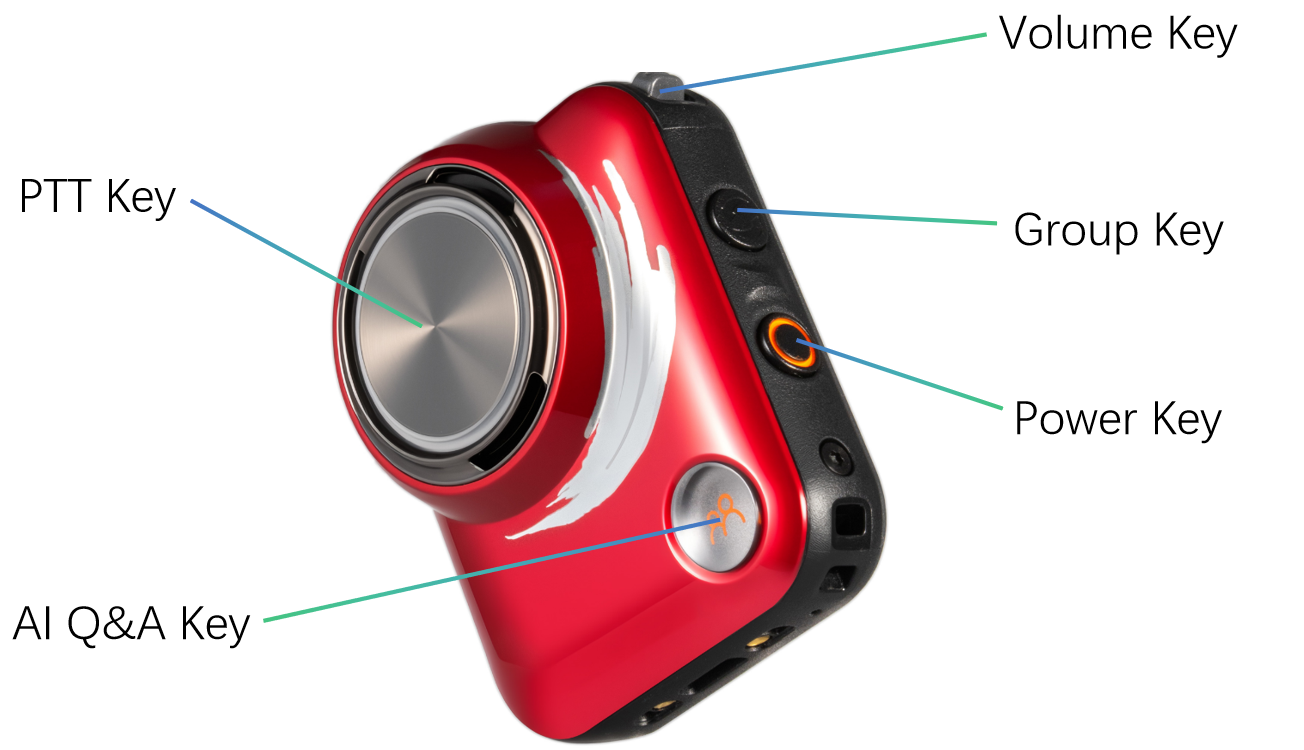
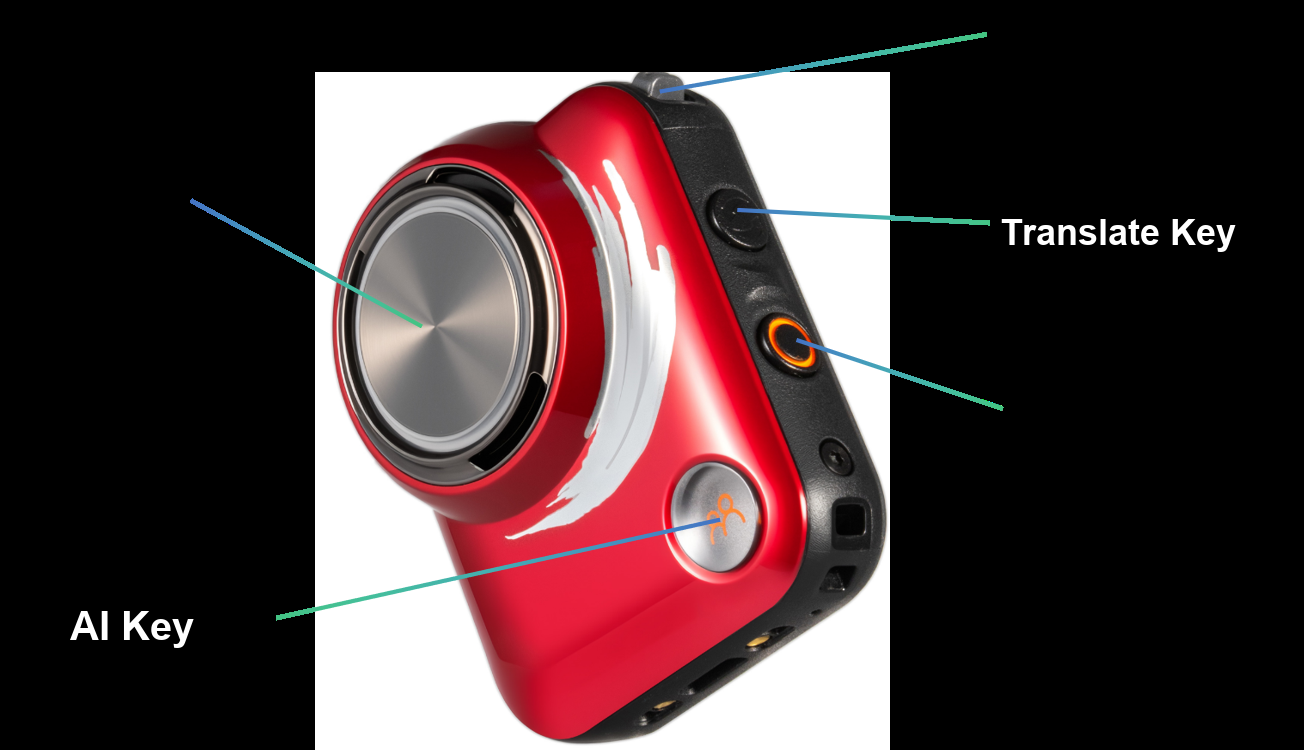
fix: 至臻版英文指南同步中文版 - 设备图Group Key改Translate Key / AI Q&A Key改AI Key，按键与功能卡改新版5键布局

diff --git a/ai-travel-premium-guide-en.html b/ai-travel-premium-guide-en.html
@@ -243,29 +243,29 @@
         <div>
           <div class="guide-slide__keys">
             <div class="guide-slide__key">
+              <div class="guide-slide__key-icon">🤖</div>
+              <div class="guide-slide__key-title">AI Key</div>
+              <div class="guide-slide__key-desc">Short press: One-tap guide<br>Hold: Voice question<br>Release: AI answer</div>
+            </div>
+            <div class="guide-slide__key">
               <div class="guide-slide__key-icon">🔊</div>
               <div class="guide-slide__key-title">Volume Key</div>
               <div class="guide-slide__key-desc">Adjust device volume</div>
             </div>
             <div class="guide-slide__key">
-              <div class="guide-slide__key-icon">🎤</div>
-              <div class="guide-slide__key-title">PTT Key</div>
-              <div class="guide-slide__key-desc">One-click commentary & intercom</div>
+              <div class="guide-slide__key-icon">🌐</div>
+              <div class="guide-slide__key-title">Translate Key</div>
+              <div class="guide-slide__key-desc">Hold 2s: Translation toggle<br>Short press: Stop guide</div>
             </div>
             <div class="guide-slide__key">
-              <div class="guide-slide__key-icon">👥</div>
-              <div class="guide-slide__key-title">Group Key</div>
-              <div class="guide-slide__key-desc">Start / search / join groups</div>
+              <div class="guide-slide__key-icon">🎤</div>
+              <div class="guide-slide__key-title">PTT Key</div>
+              <div class="guide-slide__key-desc">Hold: Start intercom<br>Release: Listen to intercom</div>
             </div>
             <div class="guide-slide__key">
               <div class="guide-slide__key-icon">🔘</div>
               <div class="guide-slide__key-title">Power Key</div>
               <div class="guide-slide__key-desc">Power on/off</div>
-            </div>
-            <div class="guide-slide__key" style="grid-column:1/-1;">
-              <div class="guide-slide__key-icon">🤖</div>
-              <div class="guide-slide__key-title">AI Q&A Key</div>
-              <div class="guide-slide__key-desc">Hold for voice query, AI answers instantly</div>
             </div>
           </div>
           <div style="margin-top:16px; text-align:center;">
@@ -282,34 +282,14 @@
     <div class="guide-slide guide-slide--ops">
       <div class="guide-slide__num">02</div>
       <div class="guide-slide__body">
-        <!-- Group Up -->
-        <div class="guide-slide__op">
-          <div class="guide-slide__op-icon">👥</div>
-          <div class="guide-slide__op-title">Group Up</div>
-          <ul class="guide-slide__op-steps">
-            <li class="guide-slide__op-step">
-              <span class="guide-slide__op-step-num">1</span>
-              <span><strong>Long press Group Key</strong> to start grouping, <strong>short press</strong> to stop</span>
-            </li>
-            <li class="guide-slide__op-step">
-              <span class="guide-slide__op-step-num">2</span>
-              <span><strong>Double-click Group Key</strong> to search groups, <strong>single-click</strong> to join</span>
-            </li>
-          </ul>
-        </div>
-
-        <!-- One-click Commentary -->
+        <!-- One-tap Guide -->
         <div class="guide-slide__op">
           <div class="guide-slide__op-icon">🎙️</div>
-          <div class="guide-slide__op-title">One-click Commentary</div>
+          <div class="guide-slide__op-title">One-tap Guide</div>
           <ul class="guide-slide__op-steps">
             <li class="guide-slide__op-step">
               <span class="guide-slide__op-step-num">1</span>
-              <span><strong>Single-click PTT Key</strong> for commentary on nearby attractions</span>
-            </li>
-            <li class="guide-slide__op-step">
-              <span class="guide-slide__op-step-num">2</span>
-              <span><strong>Single-click AI Q&A Key</strong> to stop commentary</span>
+              <span><strong>Single-click "AI Key"</strong> to start a guide of nearby attractions; press <strong>"Translate Key"</strong> to stop</span>
             </li>
           </ul>
         </div>
@@ -321,27 +301,43 @@
           <ul class="guide-slide__op-steps">
             <li class="guide-slide__op-step">
               <span class="guide-slide__op-step-num">1</span>
-              <span><strong>Hold AI Q&A Key</strong> for voice query, <strong>release</strong> to get reply</span>
-            </li>
-            <li class="guide-slide__op-step">
-              <span class="guide-slide__op-step-num">2</span>
-              <span><strong>Single-click AI Q&A Key</strong> to stop voice reply</span>
+              <span><strong>Hold "AI Key"</strong> for a voice question, <strong>release</strong> to get the AI answer; press <strong>"Translate Key"</strong> to stop the reply</span>
             </li>
           </ul>
         </div>
 
-        <!-- PTT -->
+        <!-- Voice Translation -->
         <div class="guide-slide__op">
-          <div class="guide-slide__op-icon">🎤</div>
-          <div class="guide-slide__op-title">PTT (Push-to-Talk)</div>
+          <div class="guide-slide__op-icon">🌐</div>
+          <div class="guide-slide__op-title">Voice Translation</div>
           <ul class="guide-slide__op-steps">
             <li class="guide-slide__op-step">
               <span class="guide-slide__op-step-num">1</span>
-              <span><strong>Hold PTT Key</strong> to speak to team members</span>
+              <span><strong>Hold "Translate Key" for 2s</strong> to enable translation; hold again for 2s to stop</span>
             </li>
+          </ul>
+        </div>
+
+        <!-- Group Up -->
+        <div class="guide-slide__op">
+          <div class="guide-slide__op-icon">👥</div>
+          <div class="guide-slide__op-title">Group Up</div>
+          <ul class="guide-slide__op-steps">
             <li class="guide-slide__op-step">
-              <span class="guide-slide__op-step-num">2</span>
-              <span><strong>Release PTT Key</strong> to listen to team members</span>
+              <span class="guide-slide__op-step-num">1</span>
+              <span>Open the WeChat Mini Program, go to <strong>Groups</strong>, and scan the QR code on the device back to add team members</span>
+            </li>
+          </ul>
+        </div>
+
+        <!-- Group Intercom -->
+        <div class="guide-slide__op">
+          <div class="guide-slide__op-icon">🎤</div>
+          <div class="guide-slide__op-title">Group Intercom</div>
+          <ul class="guide-slide__op-steps">
+            <li class="guide-slide__op-step">
+              <span class="guide-slide__op-step-num">1</span>
+              <span><strong>Hold "PTT Key"</strong> to talk to the group; <strong>release</strong> to listen to other members</span>
             </li>
           </ul>
         </div>